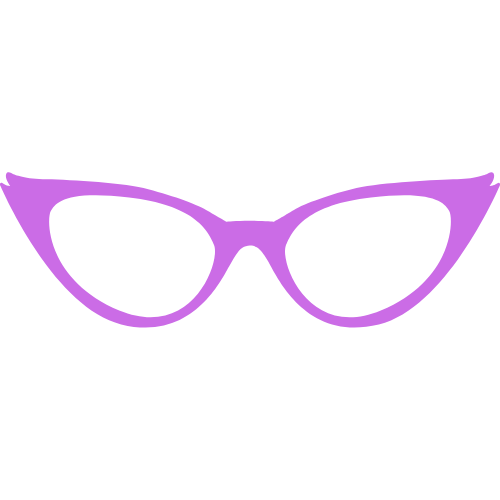
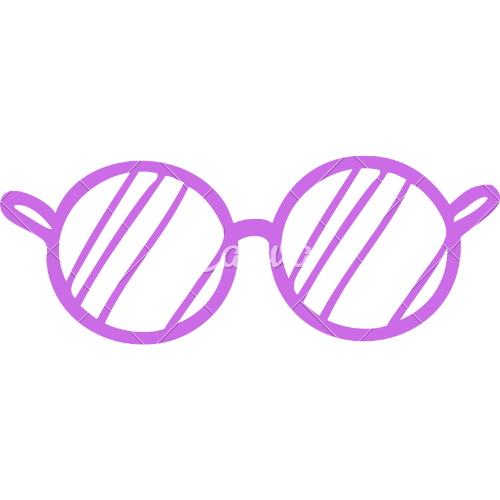
More fun with front page graphics and text

Changed region(s): [[0.0, 0.3, 1.0, 0.69]]

diff --git a/src/pages/index.js b/src/pages/index.js
@@ -9,7 +9,7 @@ import styles from './styles.module.css';
 const features = [
   {
     title: <>Easy to Use</>,
-    imageUrl: 'img/undraw_docusaurus_mountain.svg',
+    imageUrl: 'img/car.png',
     description: (
       <>
         Docusaurus was designed from the ground up to be easily installed and
@@ -18,22 +18,20 @@ const features = [
     ),
   },
   {
-    title: <>Focus on What Matters</>,
-    imageUrl: 'img/undraw_docusaurus_tree.svg',
+    title: <>Focus on Small Wins</>,
+    imageUrl: 'img/glasses.png',
     description: (
       <>
-        Docusaurus lets you focus on your docs, and we&apos;ll do the chores. Go
-        ahead and move your docs into the <code>docs</code> directory.
+        Make use of the small, simple use cases and code snippets with just enough in them to learning something new.
       </>
     ),
   },
   {
-    title: <>Metrics... bla bla test</>,
-    imageUrl: 'img/glasses.png',
+    title: <>Take your time</>,
+    imageUrl: 'img/sleep.png',
     description: (
       <>
-        Extend or customize your website layout by reusing React. Docusaurus can
-        be extended while reusing the same header and footer.
+        Learning something new is fun.  It is also hard.  After a short session, take a long nap.
       </>
     ),
   },
